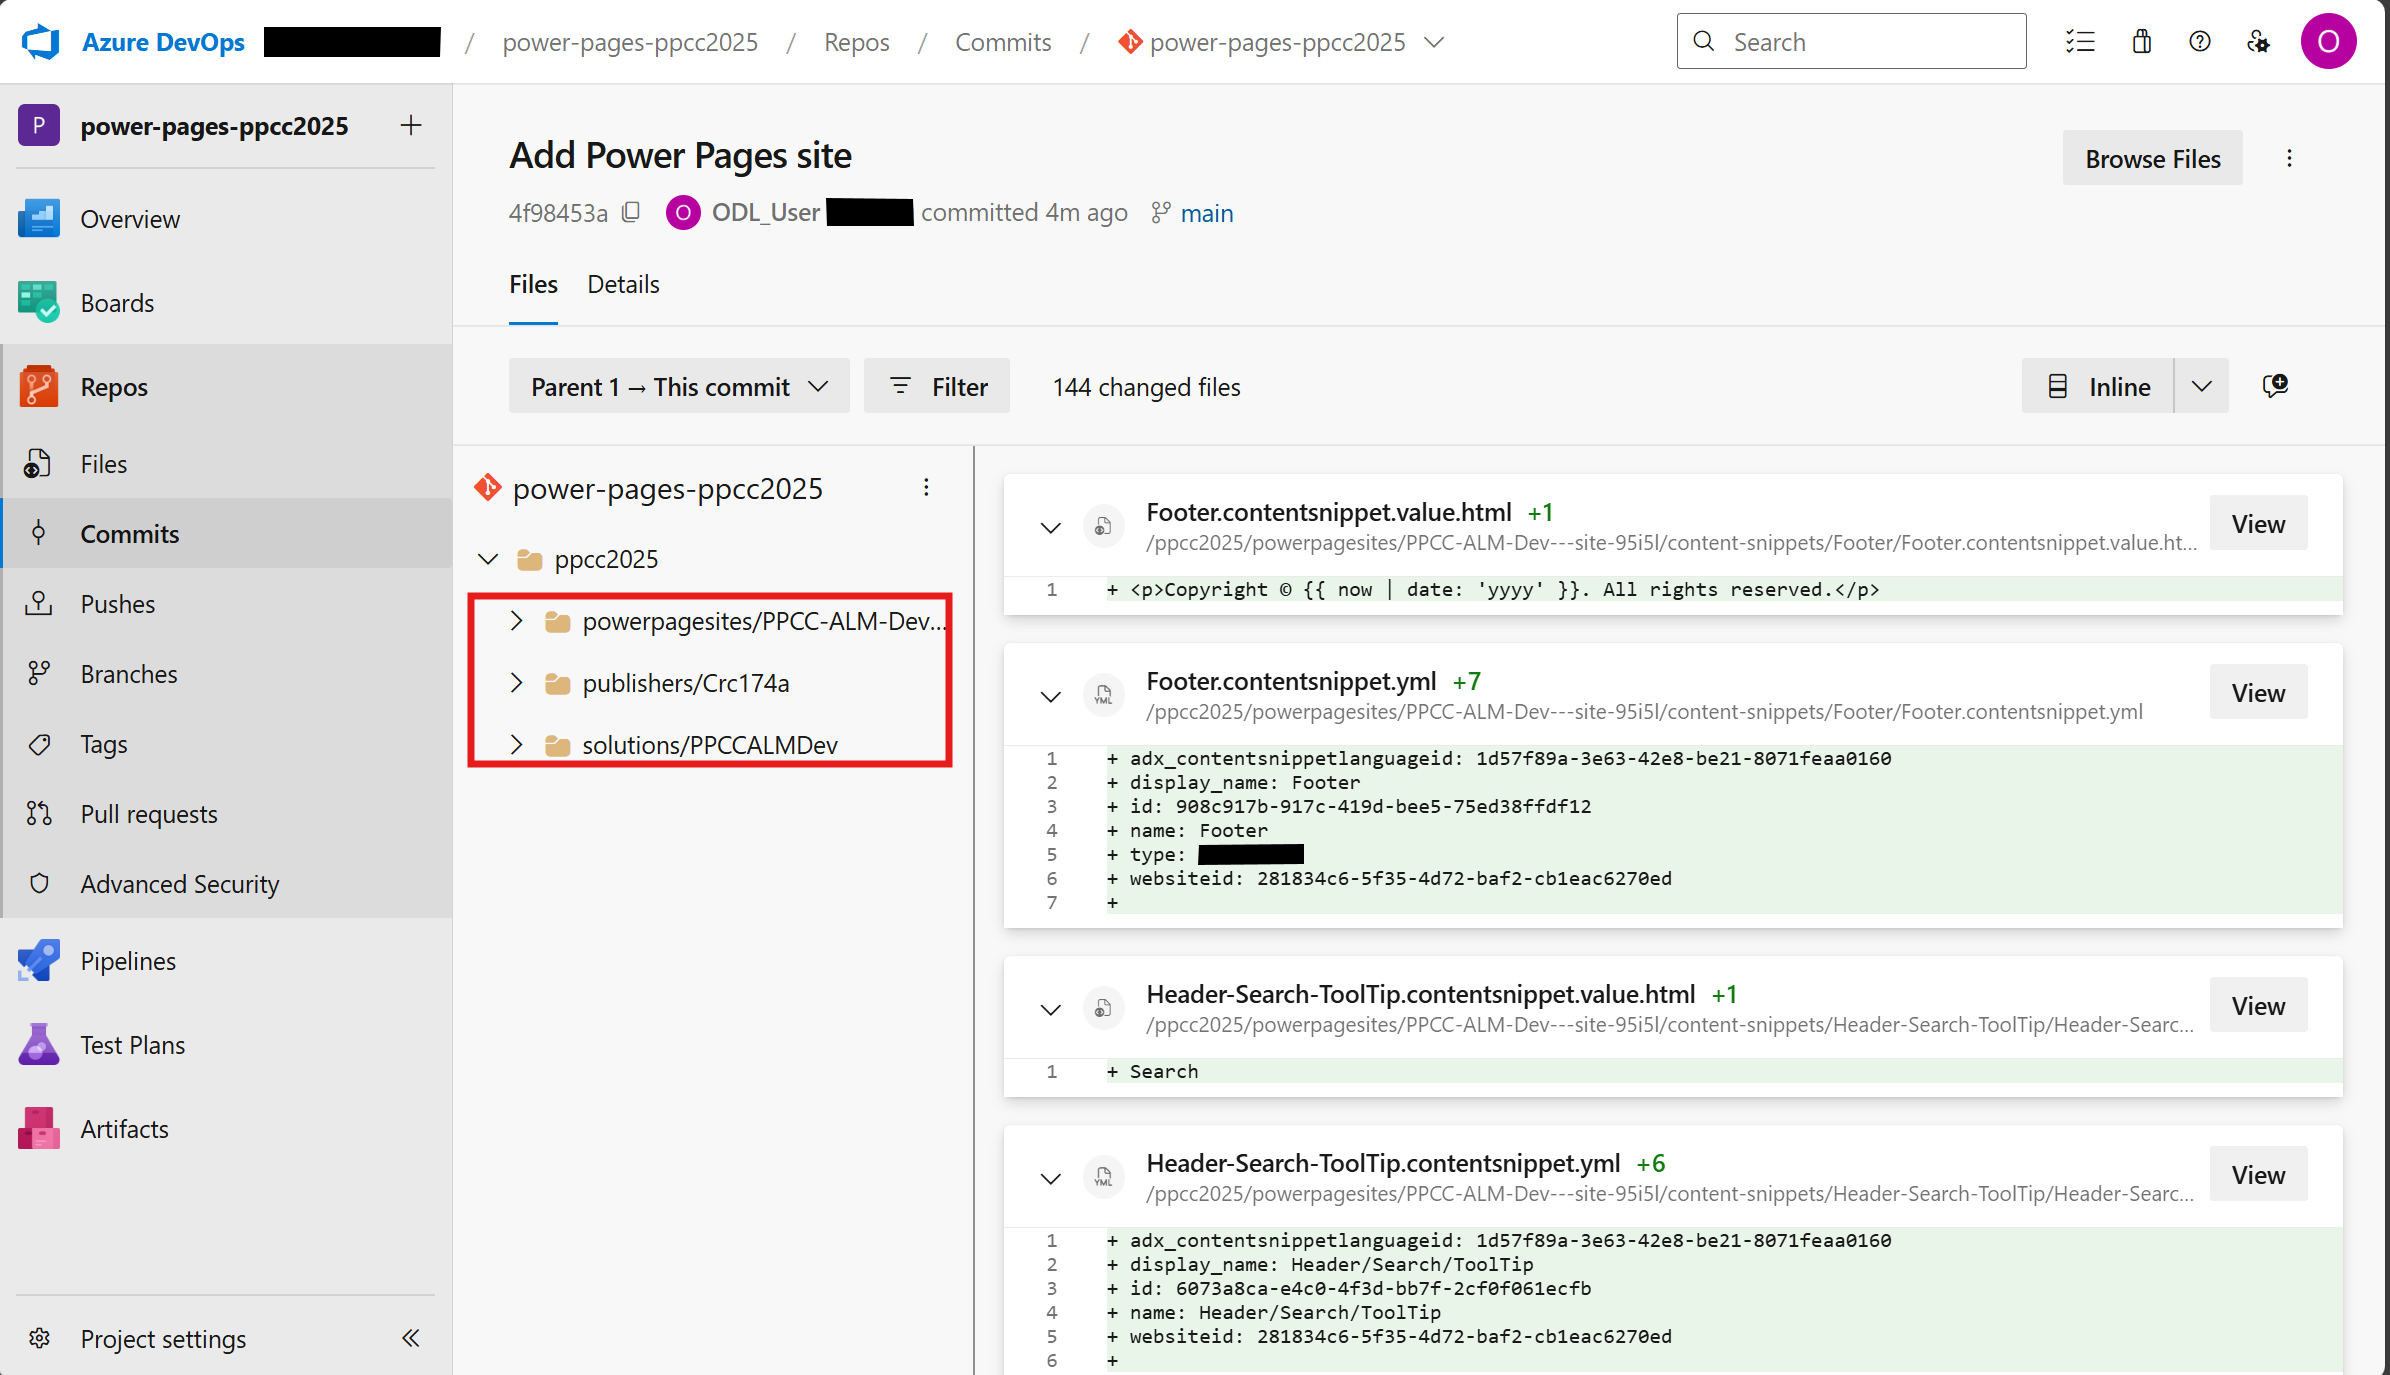
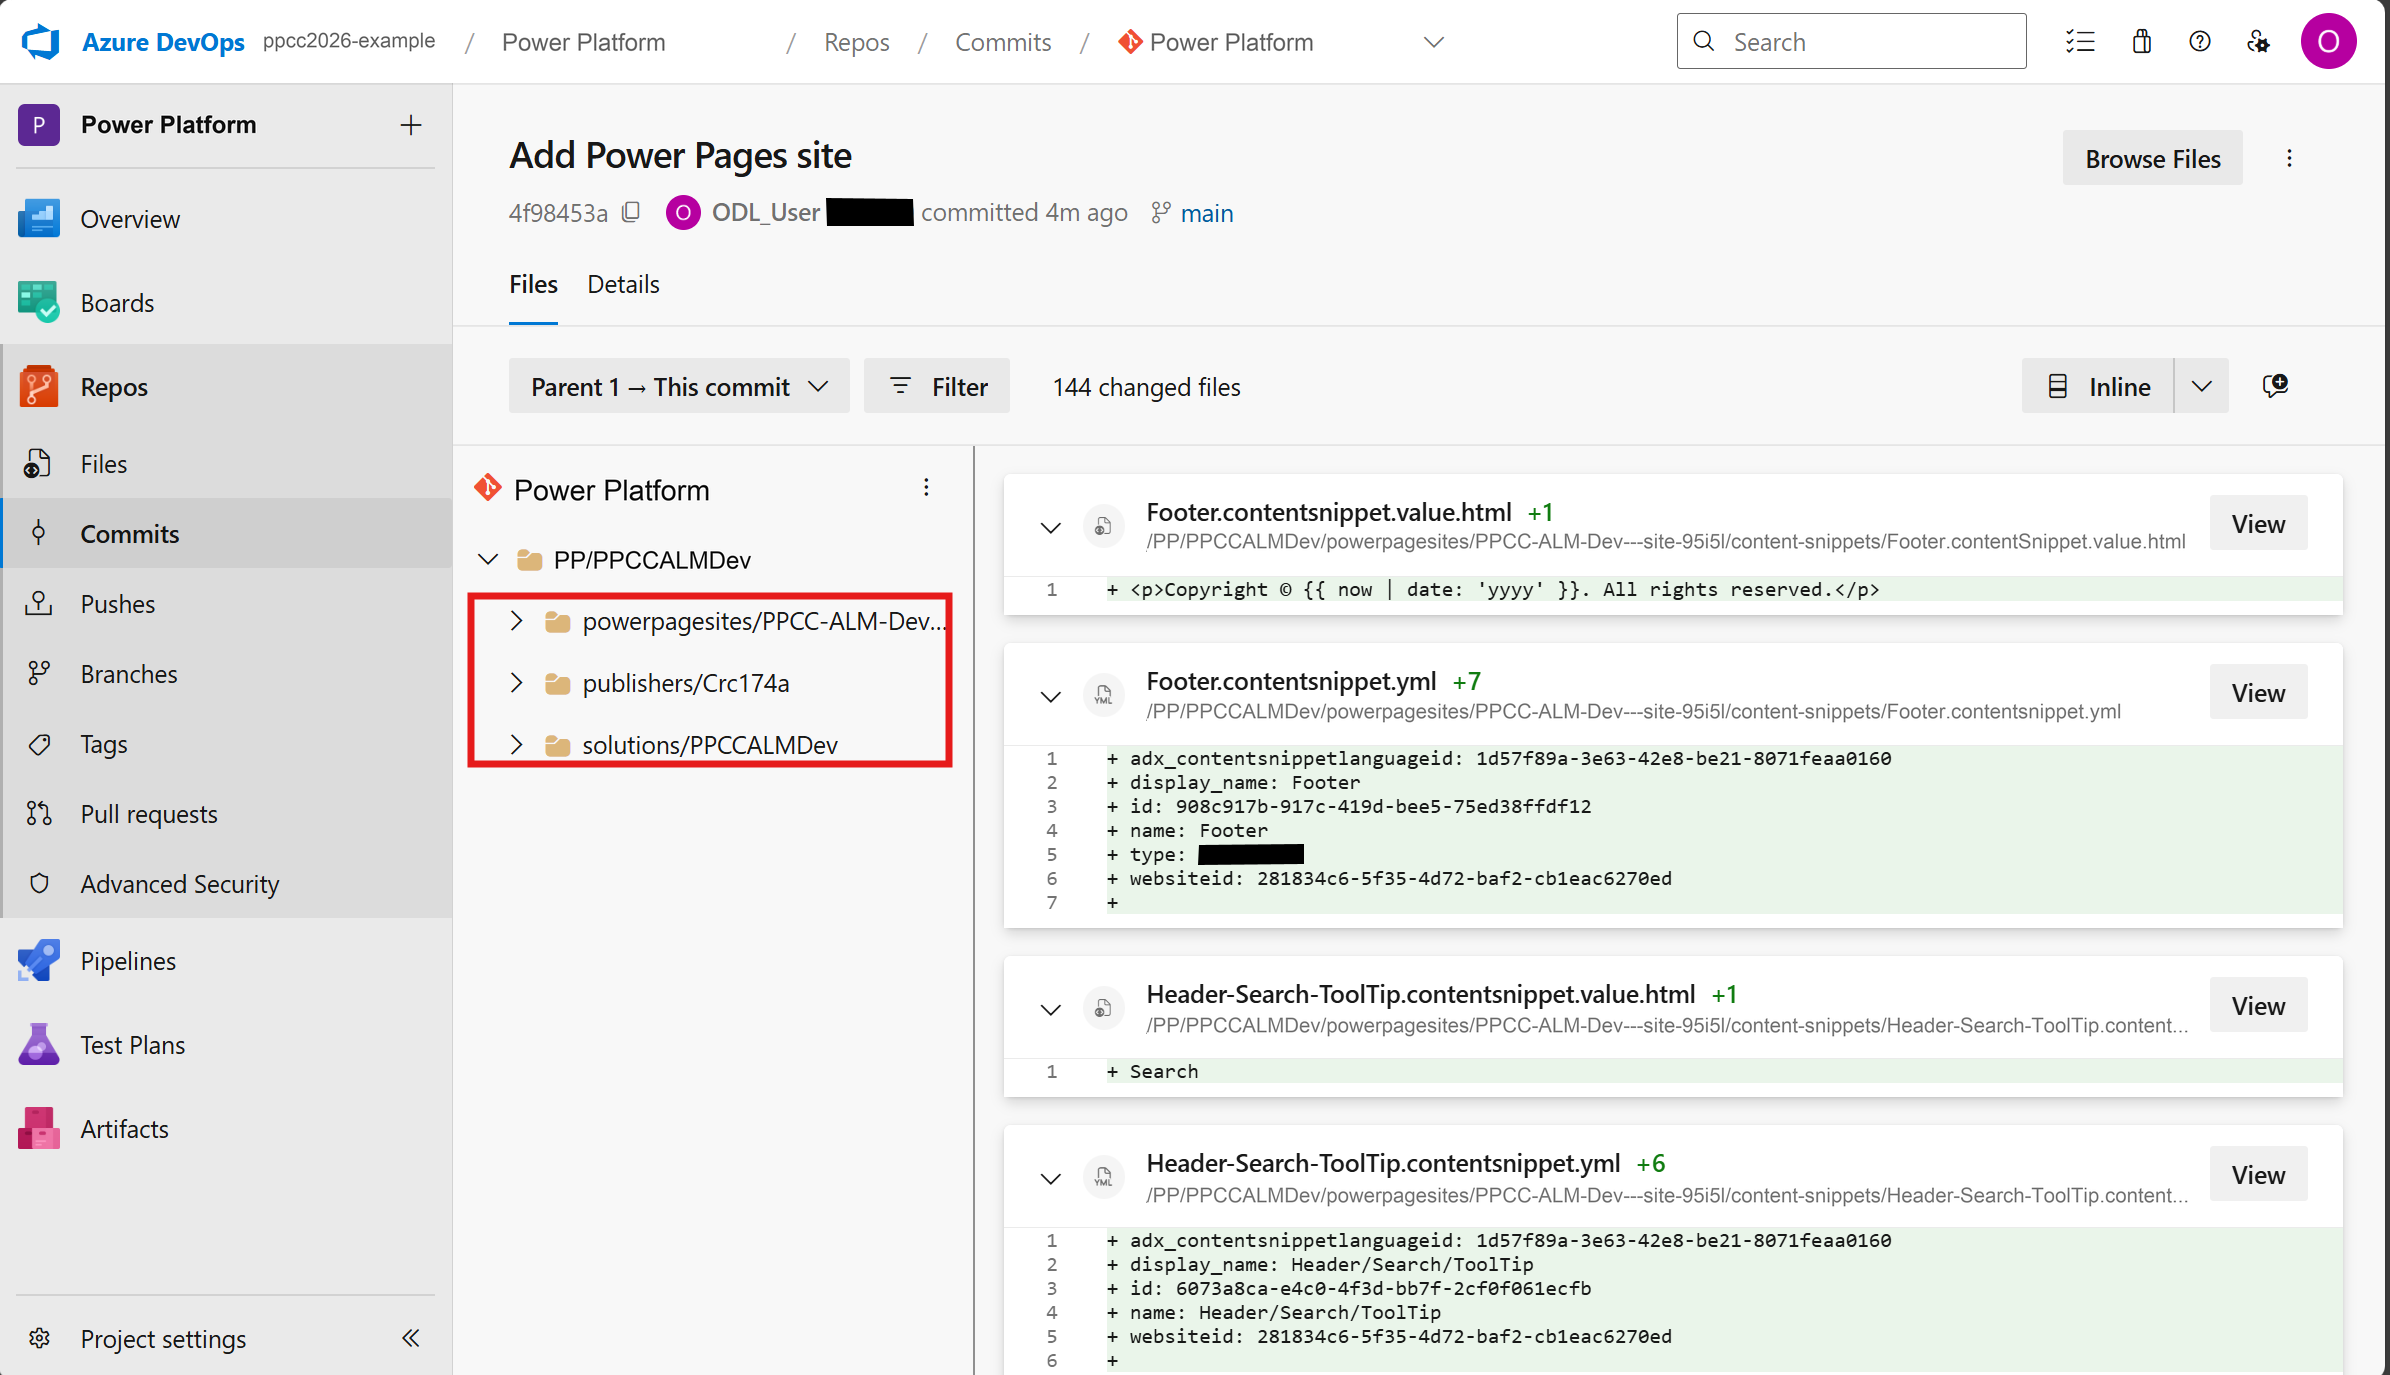
Update Lab 4 repository screenshot for 2026
- Match the Power Platform repository and PP/PPCCALMDev Git folder.\n- Clarify the folder location and label the edited example.

Copilot-Session: 7f4bae25-61b2-4524-b1d7-df8a880d36d5

diff --git a/docs/labs/lab4/lab/README.md b/docs/labs/lab4/lab/README.md
@@ -222,12 +222,15 @@ Workshop sites are expected to be **Private**, so select the Microsoft account t
 
     ![View Commit in Azure DevOps](images/view-commit-in-ado.png)
 
-1. Notice that there are 3 folders created in the repository:
+1. Notice that there are 3 folders created under `PP/PPCCALMDev` in the repository:
     1. **powerpagesites** - Contains the Power Pages site related files
     1. **solutions** - Contains the solution related files
     1. **publishers** - Contains the publisher information
 
-    ![Repository Structure](images/repo-structure.png)
+    ![Repository structure under PP/PPCCALMDev in the Power Platform repository](images/repo-structure.png)
+
+    _The image is an edited example using the organization name `ppcc2026-example`.
+    Your organization name will differ._
 
 ### 💻 Cloning the repository locally
 
